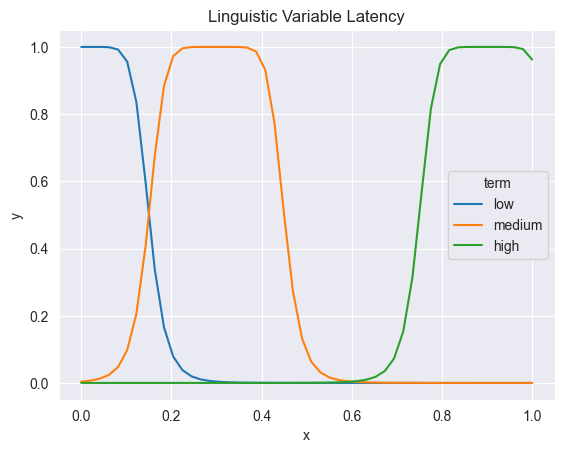
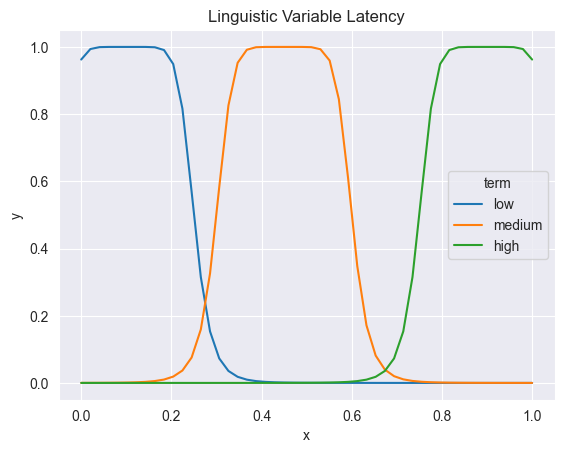
experimented variants a, b, c

diff --git a/fuzzy/models/mamdani_bell_v9a.py b/fuzzy/models/mamdani_bell_v9a.py
@@ -14,14 +14,15 @@ M5 = TriangleFuzzySet(0.8, 1, 1, term="very_high")
 FS.add_linguistic_variable("SystemLoad", LinguisticVariable([M1,M2,M3, M4, M5], universe_of_discourse=[0,1]))
 
 # Latency
-L1 = FuzzySet(function=Bell_MF(a=4, b=0.15, c=0), term="low")
-L2 = FuzzySet(function=Bell_MF(a=4, b=0.15, c=0.3), term="medium")
+L1 = FuzzySet(function=Bell_MF(a=4, b=0.15, c=0.1), term="low")
+L2 = FuzzySet(function=Bell_MF(a=4, b=0.15, c=0.45), term="medium")
 L3 = FuzzySet(function=Bell_MF(a=4, b=0.15, c=0.9), term="high")
 FS.add_linguistic_variable("Latency", LinguisticVariable([L1, L2, L3], universe_of_discourse=[0,1]))
 
 # CLP Variation (output)
-CLP1 = TriangleFuzzySet(-1, -1, -0.7, term="decrease_significantly")
-CLP2 = FuzzySet(function=Bell_MF(a=2, b=0.05, c=-0.75), term="decrease")
+CLP1 = TriangleFuzzySet(-1, -1, -0.8, term="decrease_significantly")
+#CLP1 = FuzzySet(function=Bell_MF(a=4, b=1, c=-0.9), term="decrease_significantly")
+CLP2 = FuzzySet(function=Bell_MF(a=2, b=0.05, c=-0.65), term="decrease")
 CLP3 = FuzzySet(function=Bell_MF(a=1, b=0.1, c=0.1), term="maintain")
 CLP4 = FuzzySet(function=Bell_MF(a=2, b=0.05, c=0.5), term="increase")
 CLP5 = TriangleFuzzySet(0.7, 1, 1, term="increase_significantly")

diff --git a/fuzzy/models/mamdani_bell_v9c.py b/fuzzy/models/mamdani_bell_v9c.py
@@ -23,7 +23,7 @@ FS.add_linguistic_variable("Latency", LinguisticVariable([L1, L2, L3], universe_
 CLP1 = TriangleFuzzySet(-1, -1, -0.8, term="decrease_significantly")
 #CLP1 = FuzzySet(function=Bell_MF(a=4, b=1, c=-0.9), term="decrease_significantly")
 CLP2 = FuzzySet(function=Bell_MF(a=4, b=0.05, c=-0.65), term="decrease")
-CLP3 = FuzzySet(function=Bell_MF(a=1, b=0.1, c=0.1), term="maintain")
+CLP3 = FuzzySet(function=Bell_MF(a=2, b=0.1, c=0.1), term="maintain")
 CLP4 = FuzzySet(function=Bell_MF(a=2, b=0.05, c=0.5), term="increase")
 CLP5 = TriangleFuzzySet(0.7, 1, 1, term="increase_significantly")
 #CLP5 = FuzzySet(function=Bell_MF(a=2, b=0.15, c=1), term="increase_significantly")
@@ -44,7 +44,7 @@ if __name__ == '__main__':
     import pickle
     from fuzzy.visualization import *
 
-    save_path = '../output/mamdani_bell_v9b'
+    save_path = '../output/mamdani_bell_v9c'
 
     if not os.path.exists(save_path):
         os.makedirs(save_path)

diff --git a/fuzzy/eval_models.py b/fuzzy/eval_models.py
@@ -16,6 +16,7 @@ from fuzzy.models.mamdani_triangle_v3 import FS as FS13
 from fuzzy.models.mamdani_bell_v9 import FS as FS9
 from fuzzy.models.mamdani_bell_v9a import FS as FS9a
 from fuzzy.models.mamdani_bell_v9b import FS as FS9b
+from fuzzy.models.mamdani_bell_v9c import FS as FS9c
 #from fuzzy.models.mamdani_bell_v10 import FS as FS10
 
 
@@ -32,6 +33,7 @@ models = {
     'mamdani_bell_v9': FS9,
     'mamdani_bell_v9a': FS9a,
     'mamdani_bell_v9b': FS9b,
+    'mamdani_bell_v9c': FS9c,
     #'mamdani_bell_v10': FS10,
 }
 
